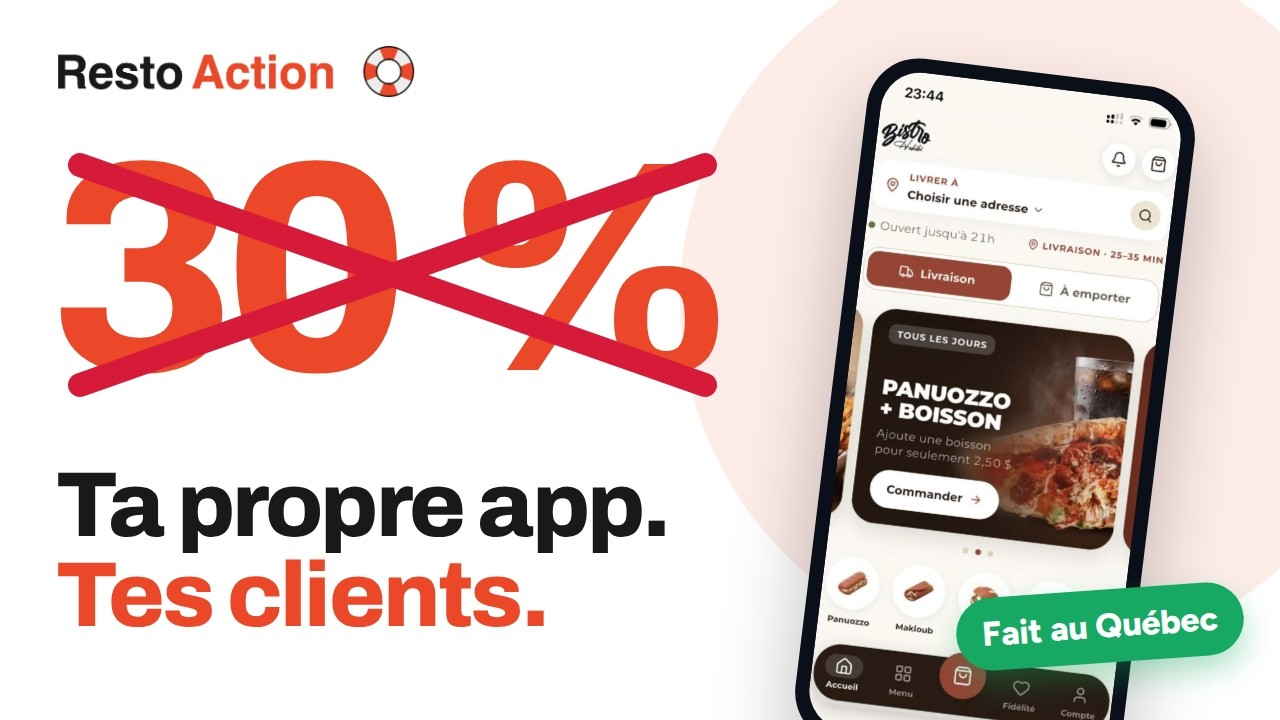
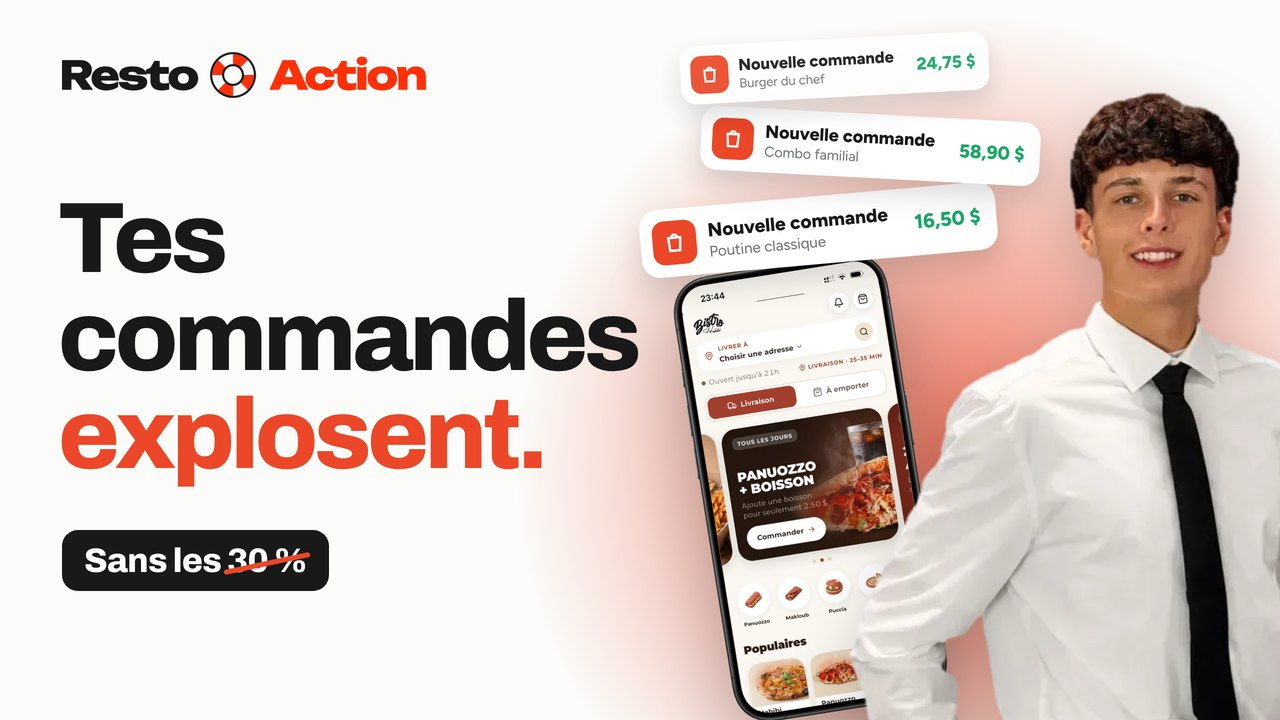
Accueil : nouvelle vidéo (avec le Système Nouveaux Clients) et sa miniature
Claude-Session: https://claude.ai/code/session_014Jcffk2P9iBeVhQVcpmbq5

diff --git a/src/lib/site.ts b/src/lib/site.ts
@@ -92,7 +92,7 @@ export const VIDEO_HISTOIRE = {
    Elle démarre seule, sans son, pour qui a accepté les témoins ; pour les
    autres, la miniature (copie locale dans public/) et un clic. */
 export const VIDEO_ACCUEIL = {
-  id: "vWOEnEM3r7M",
+  id: "x6gAHQNXLwA",
   miniature: "/video-accueil.jpg",
 };
 
